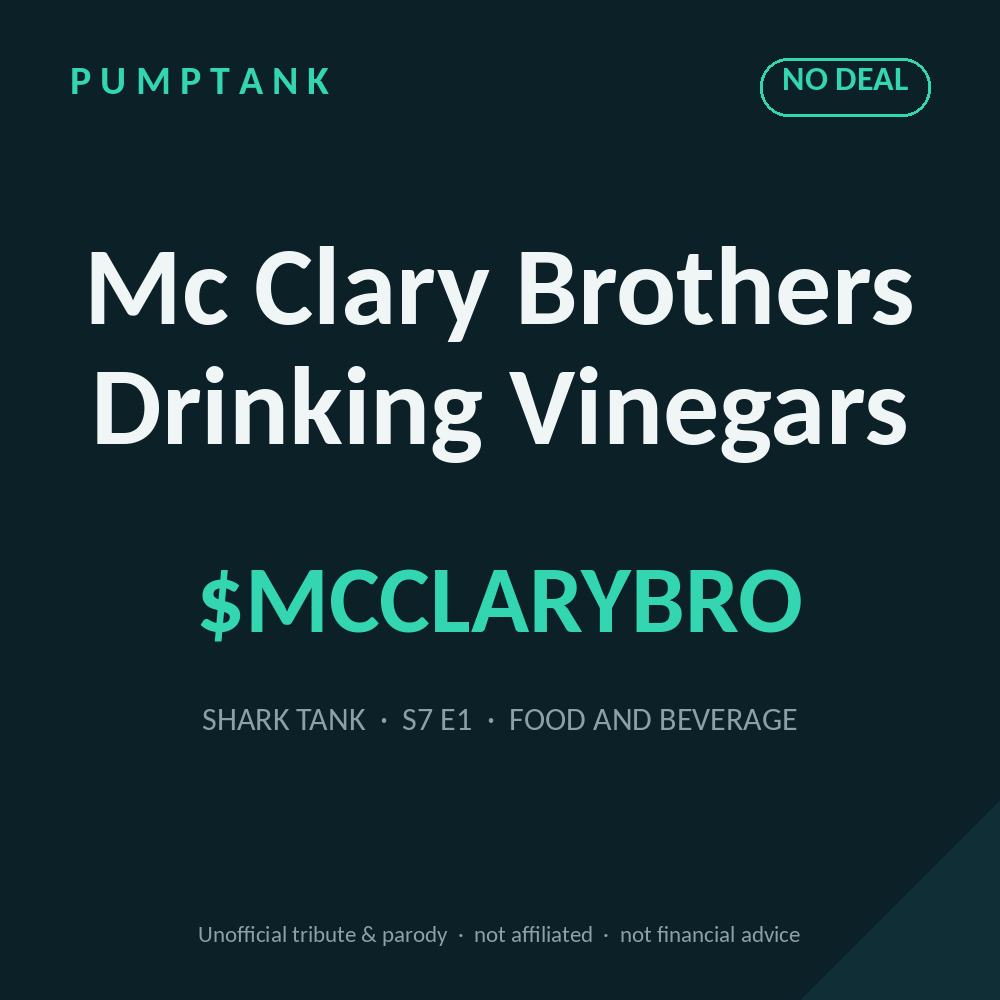
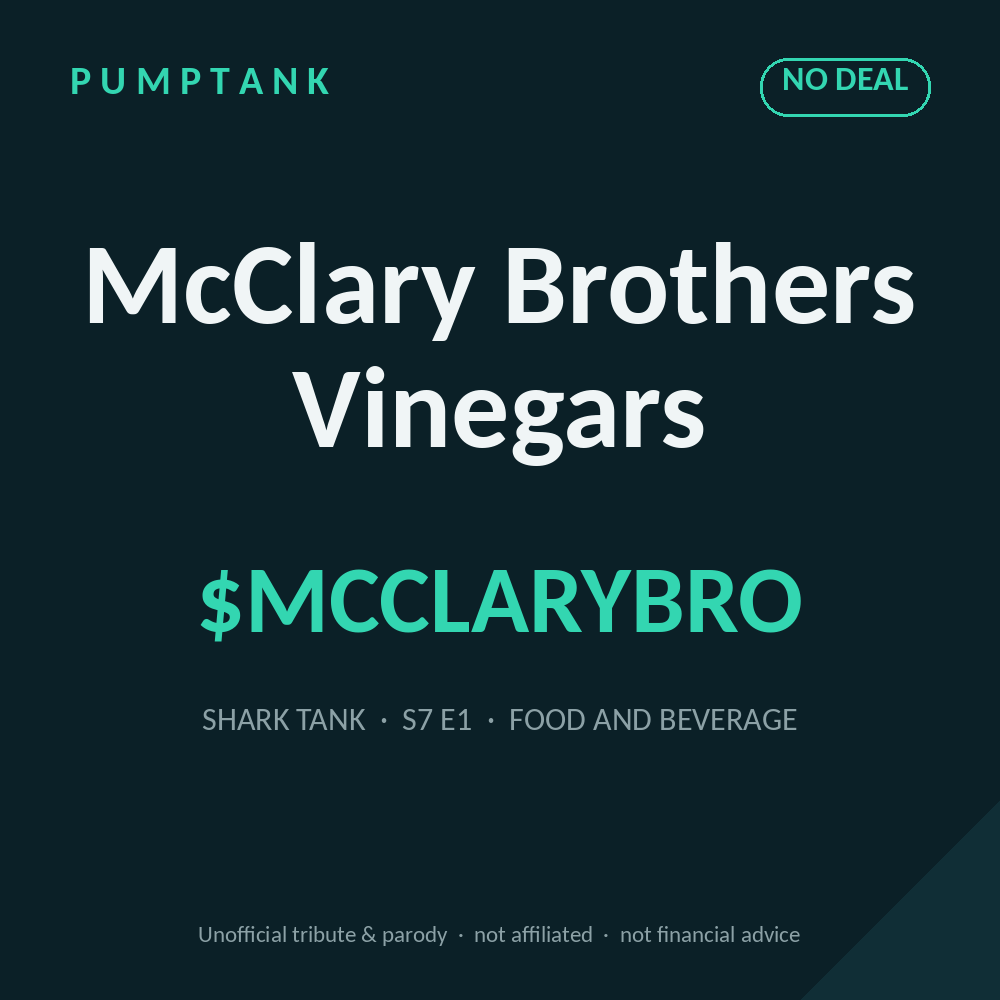
fix(pipeline): enforce Metaplex 32-byte token name cap
The token name field had no length guard, so 2 launchable names exceeded
Metaplex's on-chain 32-byte MAX_NAME_LENGTH (which pump.fun's create CPIs
into) and would have failed the create tx:
  - Soaps Washes And Grooming Essentials (36B) -> Soaps Washes & Grooming
  - Mc Clary Brothers Drinking Vinegars (35B) -> McClary Brothers Vinegars

Add MAX_NAME_LEN=32 + byte-aware _cap_name() backstop in generate_assets so
an over-long de-smooshed name can never produce a failing tx again. Symbols
were already capped at 10 (0 violations); the renames leave both symbols
unchanged, so no dedup disturbance. products.json patched surgically to
preserve merged youtube_url links; 2 cards re-rendered.

Changed region(s): [[0.062, 0.248, 0.93, 0.465]]

diff --git a/pipeline/tests/test_assets.py b/pipeline/tests/test_assets.py
@@ -105,7 +105,8 @@ def _sel(pid, name, rank, dev_buy=True, desc="A gadget", got_deal=False,
 def test_generate_assets_all_launched_get_tokens():
     out = generate_assets(
         [_sel("a", "Acme", 1, dev_buy=True), _sel("b", "Beta", None, dev_buy=False)],
-        max_ticker_len=10, max_description_len=480, disclaimer="D.", name_overrides={})
+        max_ticker_len=10, max_description_len=480, max_name_len=32,
+        disclaimer="D.", name_overrides={})
     by_id = {p.id: p for p in out}
     assert by_id["a"].token is not None
     assert by_id["a"].token.symbol == "ACME"
@@ -118,7 +119,8 @@ def test_generate_assets_skips_unlaunched():
     out = generate_assets(
         [_sel("a", "Acme", 1, dev_buy=True),
          _sel("x", "NotLaunched", None, dev_buy=False, include=False)],
-        max_ticker_len=10, max_description_len=480, disclaimer="D.", name_overrides={})
+        max_ticker_len=10, max_description_len=480, max_name_len=32,
+        disclaimer="D.", name_overrides={})
     by_id = {p.id: p for p in out}
     assert by_id["a"].token is not None
     assert by_id["x"].token is None  # include=False -> not launched -> no token
@@ -127,7 +129,8 @@ def test_generate_assets_skips_unlaunched():
 def test_generate_assets_dedupes_tickers():
     out = generate_assets(
         [_sel("r1", "Acme", 1), _sel("r2", "Acme", 2)],
-        max_ticker_len=10, max_description_len=480, disclaimer="D.", name_overrides={})
+        max_ticker_len=10, max_description_len=480, max_name_len=32,
+        disclaimer="D.", name_overrides={})
     syms = sorted(p.token.symbol for p in out)
     assert syms == ["ACME", "ACME2"]
 
@@ -140,7 +143,8 @@ def test_generate_assets_dedup_order_dev_buy_rank_then_id():
         [_sel("zzz", "Acme", None, dev_buy=False, got_deal=True),
          _sel("aaa", "Acme", None, dev_buy=False, got_deal=False),
          _sel("mid", "Acme", 2, dev_buy=True, got_deal=False)],
-        max_ticker_len=10, max_description_len=480, disclaimer="D.", name_overrides={})
+        max_ticker_len=10, max_description_len=480, max_name_len=32,
+        disclaimer="D.", name_overrides={})
     by_id = {p.id: p for p in out}
     assert by_id["mid"].token.symbol == "ACME"   # dev-buy wins the clean cashtag
     assert by_id["aaa"].token.symbol == "ACME2"  # then non-dev-buy by id
@@ -151,7 +155,8 @@ def test_generate_assets_deal_description_branch():
     out = generate_assets(
         [_sel("d", "DealCo", 1, dev_buy=True, got_deal=True),
          _sel("n", "NoDealCo", None, dev_buy=False, got_deal=False)],
-        max_ticker_len=10, max_description_len=480, disclaimer="D.", name_overrides={})
+        max_ticker_len=10, max_description_len=480, max_name_len=32,
+        disclaimer="D.", name_overrides={})
     by_id = {p.id: p for p in out}
     assert "no deal" not in by_id["d"].token.description.lower()
     assert "Pitched on Shark Tank S5E1." in by_id["d"].token.description
@@ -168,6 +173,20 @@ def test_compose_description_drops_blurb_when_only_tail_fits():
 
 def test_generate_assets_tkn_fallback_for_symbolless_name():
     out = generate_assets([_sel("z", "@#$%", 1)],
-                          max_ticker_len=10, max_description_len=480,
+                          max_ticker_len=10, max_description_len=480, max_name_len=32,
                           disclaimer="D.", name_overrides={})
     assert out[0].token.symbol == "TKN1"
+
+
+def test_generate_assets_caps_name_to_max_bytes():
+    # A name over the cap is byte-truncated so it can never produce a failing create tx.
+    long_name = "Soaps Washes And Grooming Essentials"  # 36 bytes
+    out = generate_assets([_sel("s", long_name, 1)],
+                          max_ticker_len=10, max_description_len=480, max_name_len=32,
+                          disclaimer="D.", name_overrides={})
+    assert len(out[0].token.name.encode("utf-8")) <= 32
+    # An override within budget passes through untouched.
+    out2 = generate_assets([_sel("s", long_name, 1)],
+                           max_ticker_len=10, max_description_len=480, max_name_len=32,
+                           disclaimer="D.", name_overrides={"s": "Soaps Washes & Grooming"})
+    assert out2[0].token.name == "Soaps Washes & Grooming"

diff --git a/pipeline/pumptank_pipeline/assets.py b/pipeline/pumptank_pipeline/assets.py
@@ -20,6 +20,18 @@ def _clean_name(company_name: str, overrides: dict[str, str], pitch_id: str) -> 
     return re.sub(r"\s+", " ", name).strip()
 
 
+def _cap_name(name: str, max_len: int) -> str:
+    """Byte-aware truncate to Metaplex's name cap (bytes, not chars).
+
+    Overrides should already be in-budget; this is a backstop so a long de-smooshed
+    name can never produce a create-failing tx. Slices on a UTF-8 byte boundary
+    (errors='ignore' drops any partial trailing multibyte char) and rstrips.
+    """
+    if len(name.encode("utf-8")) <= max_len:
+        return name
+    return name.encode("utf-8")[:max_len].decode("utf-8", "ignore").rstrip()
+
+
 def _derive_symbol(clean_name: str, max_len: int) -> str:
     """Compact uppercase cashtag: drop leading 'The' + corp suffixes, alnum-only, cap len."""
     base = re.sub(r"^The\s+", "", clean_name, flags=re.IGNORECASE)
@@ -77,7 +89,7 @@ def _rank(p: Pitch) -> int:
 
 def generate_assets(pitches: list[Pitch], *, max_ticker_len: int,
                     max_description_len: int, disclaimer: str,
-                    name_overrides: dict) -> list[Pitch]:
+                    name_overrides: dict, max_name_len: int) -> list[Pitch]:
     """Set .token on every launched (include==True) pitch; return all pitches.
 
     Symbols are deduped across the WHOLE launched set into one ``taken`` set, in
@@ -90,7 +102,8 @@ def generate_assets(pitches: list[Pitch], *, max_ticker_len: int,
     rest = sorted((p for p in launched if not p.dev_buy), key=lambda p: p.id)
     taken: set = set()
     for p in dev_buys + rest:
-        name = _clean_name(p.company_name, name_overrides, p.id)
+        name = _cap_name(_clean_name(p.company_name, name_overrides, p.id),
+                         max_name_len)
         base = _derive_symbol(name, max_ticker_len) or f"TKN{_rank(p)}"
         symbol = _unique_symbol(base, taken, max_ticker_len)
         taken.add(symbol)

diff --git a/pipeline/pumptank_pipeline/config.py b/pipeline/pumptank_pipeline/config.py
@@ -46,8 +46,12 @@ EXCLUDE_IDS: dict[str, str] = {
 }
 
 # --- Token text metadata (sub-project 2a) ---
-MAX_TICKER_LEN = 10            # conservative; confirm pump.fun's symbol limit in #3
-MAX_DESCRIPTION_LEN = 480      # conservative; confirm pump.fun's limit in #3
+# Name/symbol caps are Metaplex Token Metadata on-chain limits (bytes), which
+# pump.fun's `create` CPIs into: name=32 B, symbol=10 B. Exceeding them = failed
+# tx. Description lives off-chain (IPFS), so MAX_DESCRIPTION_LEN is our own cap.
+MAX_NAME_LEN = 32              # Metaplex MAX_NAME_LENGTH (bytes)
+MAX_TICKER_LEN = 10           # Metaplex MAX_SYMBOL_LENGTH (bytes)
+MAX_DESCRIPTION_LEN = 480     # off-chain only; our own conservative cap
 TOKEN_DISCLAIMER = (
     "Unofficial fan tribute & parody token. Not affiliated with or endorsed by "
     "the company, its founders, or Shark Tank / ABC / Sony. Not financial advice; "
@@ -73,6 +77,9 @@ NAME_OVERRIDES: dict[str, str] = {
     "s16e16p1422-airtulip": "AirTulip",
     "s14e19p1262-burlap-barrel": "Burlap & Barrel",
     "s13e7p1118-love-pebble": "Love & Pebble",
+    # 2026-06-05: names over Metaplex's 32-byte on-chain cap (would fail create).
+    "s6e11p423-soapswashesandgroomingessentials": "Soaps Washes & Grooming",  # was 36 B
+    "s7e1p498-mcclarybrothersdrinkingvinegars": "McClary Brothers Vinegars",  # was 35 B; also de-smoosh fix
 }
 
 # --- Token images (sub-project 2b) ---

diff --git a/pipeline/pumptank_pipeline/cli.py b/pipeline/pumptank_pipeline/cli.py
@@ -39,7 +39,7 @@ def run(csv_path, out_path, schema_path) -> int:
     # Generate token text + card images for the full launched set, then write all.
     ordered = generate_assets(
         ordered, max_ticker_len=config.MAX_TICKER_LEN,
-        max_description_len=config.MAX_DESCRIPTION_LEN,
+        max_description_len=config.MAX_DESCRIPTION_LEN, max_name_len=config.MAX_NAME_LEN,
         disclaimer=config.TOKEN_DISCLAIMER, name_overrides=config.NAME_OVERRIDES,
     )
     ordered = render_images(